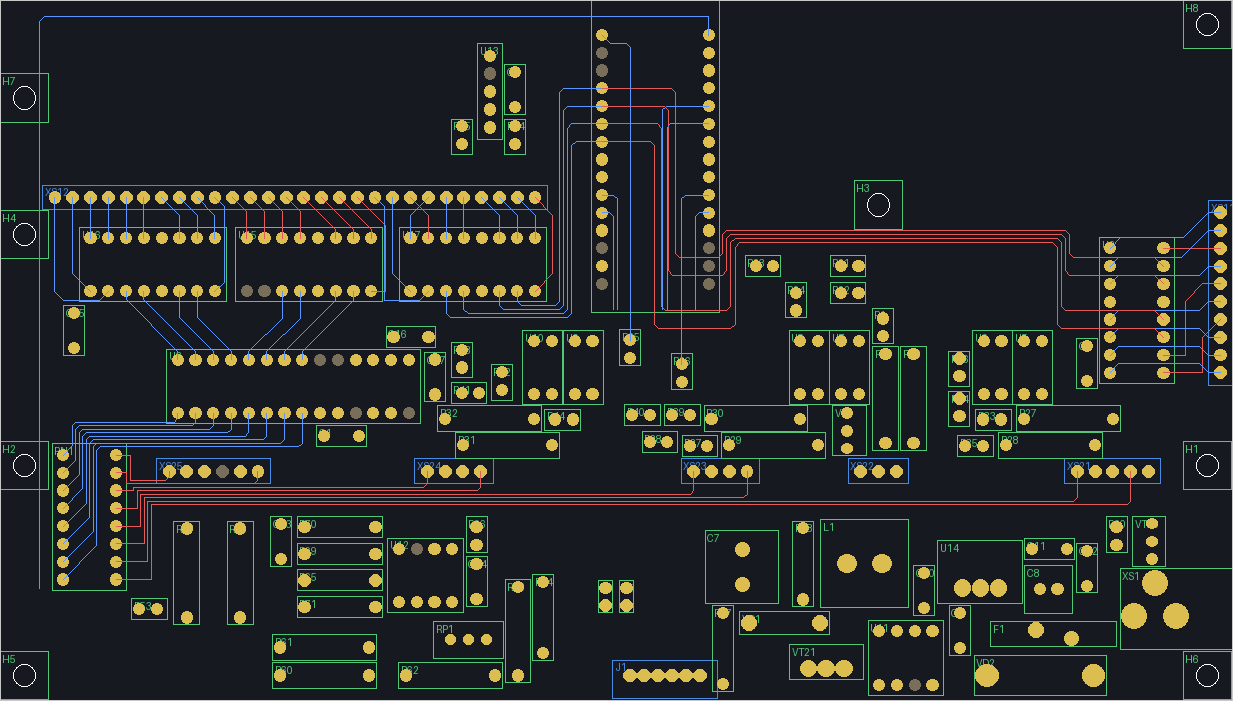
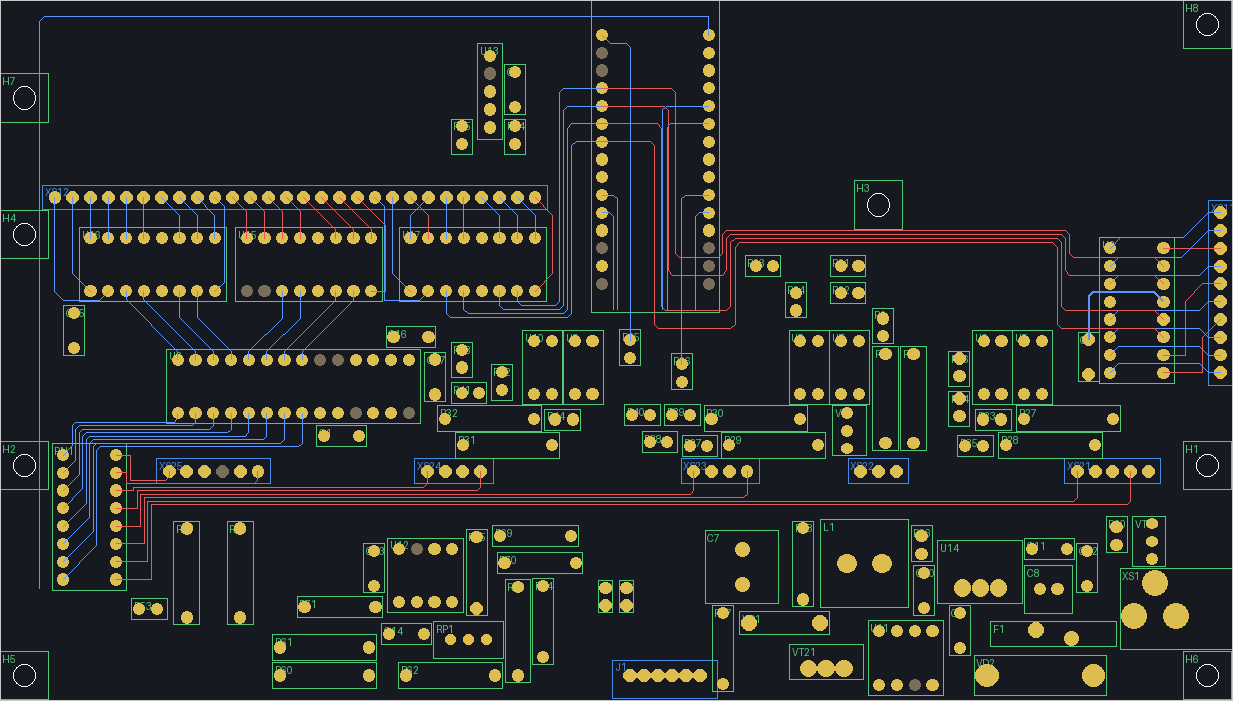
TS06-DRV swap: U2 5 V stub, D9 hop east of J1, RN1 notch down, per-round route dumps
Claude-Session: https://claude.ai/code/session_016UT9naQSnwzyf7HkDm2evf

diff --git a/tools/mkpcb_drv_swap.py b/tools/mkpcb_drv_swap.py
@@ -85,8 +85,8 @@ U3_X, U3_Y = 25.4, 59.0                     # pin 1; the top row (GPA7..GPA0, le
 pd("U3", U3_X, U3_Y, rot=90)
 # The LED network standing at the left edge, left of the AM/PM strip: port B reaches it in lanes
 # under the expander, and its right column feeds the LED ribbon under the bottom strips.
-RN_X, RN_Y = 9.0, 65.0                      # pin 1 (top of the left column)
-pd("RN1", RN_X, RN_Y, rot=0)
+RN_X, RN_Y = 9.0, 65.0                      # the top of its left column (pin 9); notch down, as U2's
+pd("RN1", RN_X + 7.62, RN_Y + 17.78, rot=180)
 
 # The anode cells over the bottom strips (the baseline's cells): two stacked anode resistors ending
 # straight over their pins, the two optos standing above them, 185 V between.
@@ -185,7 +185,7 @@ near("C15", 7.8, 43.0, 12.5, 58.0, rots=(90, 270), keepout=(DLEFT2,))
 pd("C16", 56.2, 48.1)
 near("C17", 60.0, 46.5, 64.5, 58.5, rots=(90, 270))
 near("C1", 44.0, 59.5, 62.0, 66.0, keepout=KO)
-near("C4", 150.0, 30.0, 158.0, 58.0, keepout=KO)
+pd("C4", 155.5, 48.5, rot=270)             # U2's decoupling, fed through the gap above its pin 12
 near("R53", 8.0, 85.5, 24.0, 99.5)
 for r in ("VT20", "R20"):
     near(r, 158.0, 73.8, 176.0, 84.0, keepout=KO)
@@ -193,7 +193,10 @@ for r in ("C8", "C9", "C10", "C11"):
     near(r, 128.0, 73.8, 160.0, 99.5, keepout=KO)
 for r in ("C12", "R68", "R67"):
     near(r, 100.5, 73.8, 160.0, 99.5, keepout=KO)
-for r in ("R66", "R71", "R65", "R69", "R70", "C14", "C13", "R64"):
+# D9 comes down east of J1's lines on the back face and ends in its series resistor there: PWM_G
+# crosses J1's lines on the front face to the comparator.
+near("R66", 96.5, 73.8, 135.0, 99.5, keepout=KO)
+for r in ("R71", "R65", "R69", "R70", "C14", "C13", "R64"):
     near(r, 38.0, 73.8, 85.0, 99.5, keepout=KO)
 for r in ("R33", "R34", "R35", "R36", "R37", "R38", "R39", "R40", "R41", "R42", "R43", "R44"):
     near(r, 60.0, 47.0, 157.0, 66.0, keepout=KO)
@@ -269,6 +272,9 @@ if True:
         x, y = P_("U2", pin)
         U2_IN[n] = (x_l - 1.58, y - 1.27)
         T(n, "F.Cu", (x, y), (x - 1.27, y - 1.27), U2_IN[n])
+    x, y = P_("U2", 5)
+    c1 = P_("C4", 1)
+    T("+5V", "B.Cu", (x, y), (x - 1.27, y - 1.27), (c1[0] + 0.55, y - 1.27), (c1[0], y - 0.72), c1, w=0.3)
     c = B.court("U2")
     B.keepouts.append((x_l + 0.2, c[1], W, c[3], "*"))
 
@@ -290,7 +296,7 @@ if True:
         x, y = P_("U3", 1 + k)
         yl = XB_LANE + k * XB_P
         xd = XB_DESC + k * XB_P
-        px, py = P_("RN1", 1 + k)
+        px, py = P_("RN1", 9 + k)
         T(f"XB{k}", "B.Cu", (x, y), (x, yl - 0.5), (x - 0.5, yl), (xd + 0.5, yl), (xd, yl + 0.5),
           (xd, py - (xd - px)), (px, py))
 
@@ -299,9 +305,9 @@ if True:
     BL_DEST = {8: ("XS25", 6), 7: ("XS25", 1), 6: ("XS24", 4), 5: ("XS24", 1),
                4: ("XS23", 4), 3: ("XS23", 1), 2: ("XS21", 5), 1: ("XS21", 2)}
     BL_Y, BL_P = 68.6, 0.5
-    TURN = {16: 18.6, 15: 18.1, 14: 19.1, 13: 19.6, 12: 20.1, 11: 20.6, 10: 21.1, 9: 21.6}
+    TURN = {8: 18.6, 7: 18.1, 6: 19.1, 5: 19.6, 4: 20.1, 3: 20.6, 2: 21.1, 1: 21.6}
     for j in range(8):                      # lane j, top first: BL_A8, BL_A7 ... BL_A1
-        pin = 16 - j
+        pin = 8 - j
         n = PT["RN1"].pins[str(pin)]
         x, y = P_("RN1", pin)
         yl = BL_Y + j * BL_P
@@ -434,9 +440,10 @@ WIDTHS = {"+12V": 0.8, "VIN_J": 0.8, "VIN_F": 0.8, "SW": 0.8, "+5V": 0.4, "GND":
 def route_order():
     nets = sorted({p.net for p in B.pads if p.net})
     hv = [n for n in nets if B.cls(n) == "HV"]
-    order = (["SDA", "SCL", "A6", "A7"] + [f"D{i}" for i in range(2, 14)] + [f"OPT_{t}" for t in P.TUBES] +
-             ["SW", "HV185"] + [n for n in hv if n not in ("SW", "HV185")] +
+    head = (["SDA", "SCL", "A6", "A7"] + [f"D{i}" for i in range(2, 14)] + [f"OPT_{t}" for t in P.TUBES])
+    power = (["SW", "HV185"] + [n for n in hv if n not in ("SW", "HV185")] +
              ["+12V", "VIN_J", "VIN_F", "GATE_D", "GATE", "+5V"])
+    order = power + head if os.environ.get("TS06_ORDER") == "power" else head + power
     order += [n for n in nets if n not in order and n != "GND" and n not in LOCKED]
     return [n for n in order if n in nets and n not in LOCKED] + ["GND"]
 
@@ -448,6 +455,14 @@ def route():
     R.fixed = set(FIXED)
     R.dirmul = {ly: [1.0, 1.5, 1.0, 1.5, 1.0, 1.5, 1.0, 1.5] for ly in ("F.Cu", "B.Cu")}
     N = NR.Negotiator(R, route_order(), widths=WIDTHS)
+    conflicts = N.conflicts
+
+    def watched():                          # each round: save the copper so far, for inspection
+        c = conflicts()
+        with open(ROUTES + ".partial", "w") as fh:
+            json.dump([[n, ly, [list(a), list(b)], w] for n, ly, a, b, w in B.tracks if (n, ly, a, b, w) not in FIXED], fh)
+        return c
+    N.conflicts = watched
     failed = N.run(rounds=int(os.environ.get("TS06_ROUNDS", "60")))
     with open(ROUTES, "w") as fh:
         json.dump([[n, ly, [list(a), list(b)], w] for n, ly, a, b, w in B.tracks if (n, ly, a, b, w) not in FIXED], fh, indent=0)
@@ -505,4 +520,4 @@ if __name__ == "__main__":
     B.write_library()
     print(f"wrote {os.path.relpath(OUT, ROOT)}: {len(B.placed)} parts, {n} nets, {len(B.tracks)} segments, 0 vias")
     png = os.path.join(os.path.dirname(OUT), "copper.png")
-    B.plot(png, ppm=8, color=lambda n: ((255, 90, 90) if B.cls(n) == "HV" else None))
+    B.plot(png, ppm=8, color=lambda n: ((255, 90, 90) if B.cls(n) == "HV" else (87, 217, 121)))

diff --git a/tools/ts06pair.py b/tools/ts06pair.py
@@ -284,9 +284,9 @@ R("R55", "4k7", "+5V", "SCL", R_V, group="ampm")
 # expander's port B, pin for pin, and is one placement instead of eight.
 RN = {}
 for k in range(8):
-    if SWAP:                                # element k between pins 1+k and 16-k, GPBk on pin 1+k
-        RN[1 + k] = f"XB{k}"
-        RN[16 - k] = f"BL_A{BL_OF_GPB[k]}"
+    if SWAP:                                # element k between pins 9+k and 8-k, GPBk on pin 9+k
+        RN[9 + k] = f"XB{k}"
+        RN[8 - k] = f"BL_A{BL_OF_GPB[k]}"
         continue
     RN[8 - k] = f"XB{k}"                    # the expander side: GPBk lands on pin 8-k, directly above it
     RN[9 + k] = f"BL_A{BL_OF_GPB[k]}"       # the LED side, pin 9+k, the other end of the same resistor
